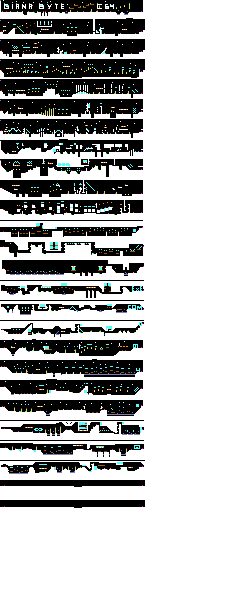
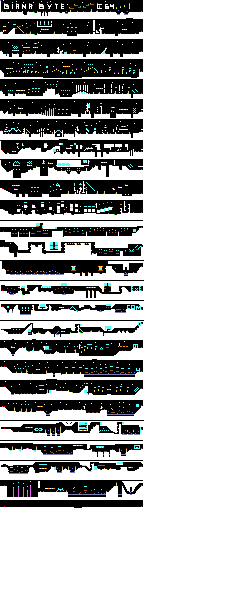
changed color of end door,and giana needs to fit in in now. added 24th level

diff --git a/core/src/com/mdinic/game/giana/screens/GameScreen.java b/core/src/com/mdinic/game/giana/screens/GameScreen.java
@@ -79,7 +79,7 @@ public class GameScreen extends GianaSistersScreen {
             controlRenderer.render();
 
         if (map.endDoor != null) {
-            if (map.giana.bounds.overlaps(map.endDoor.bounds)) {
+            if (map.endDoor.bounds.contains(map.giana.bounds)) {
                 if (map.level == 0) {
                     game.setScreen(new HighScoreScreen(game, map.sounds, renderer));
                 } else {
